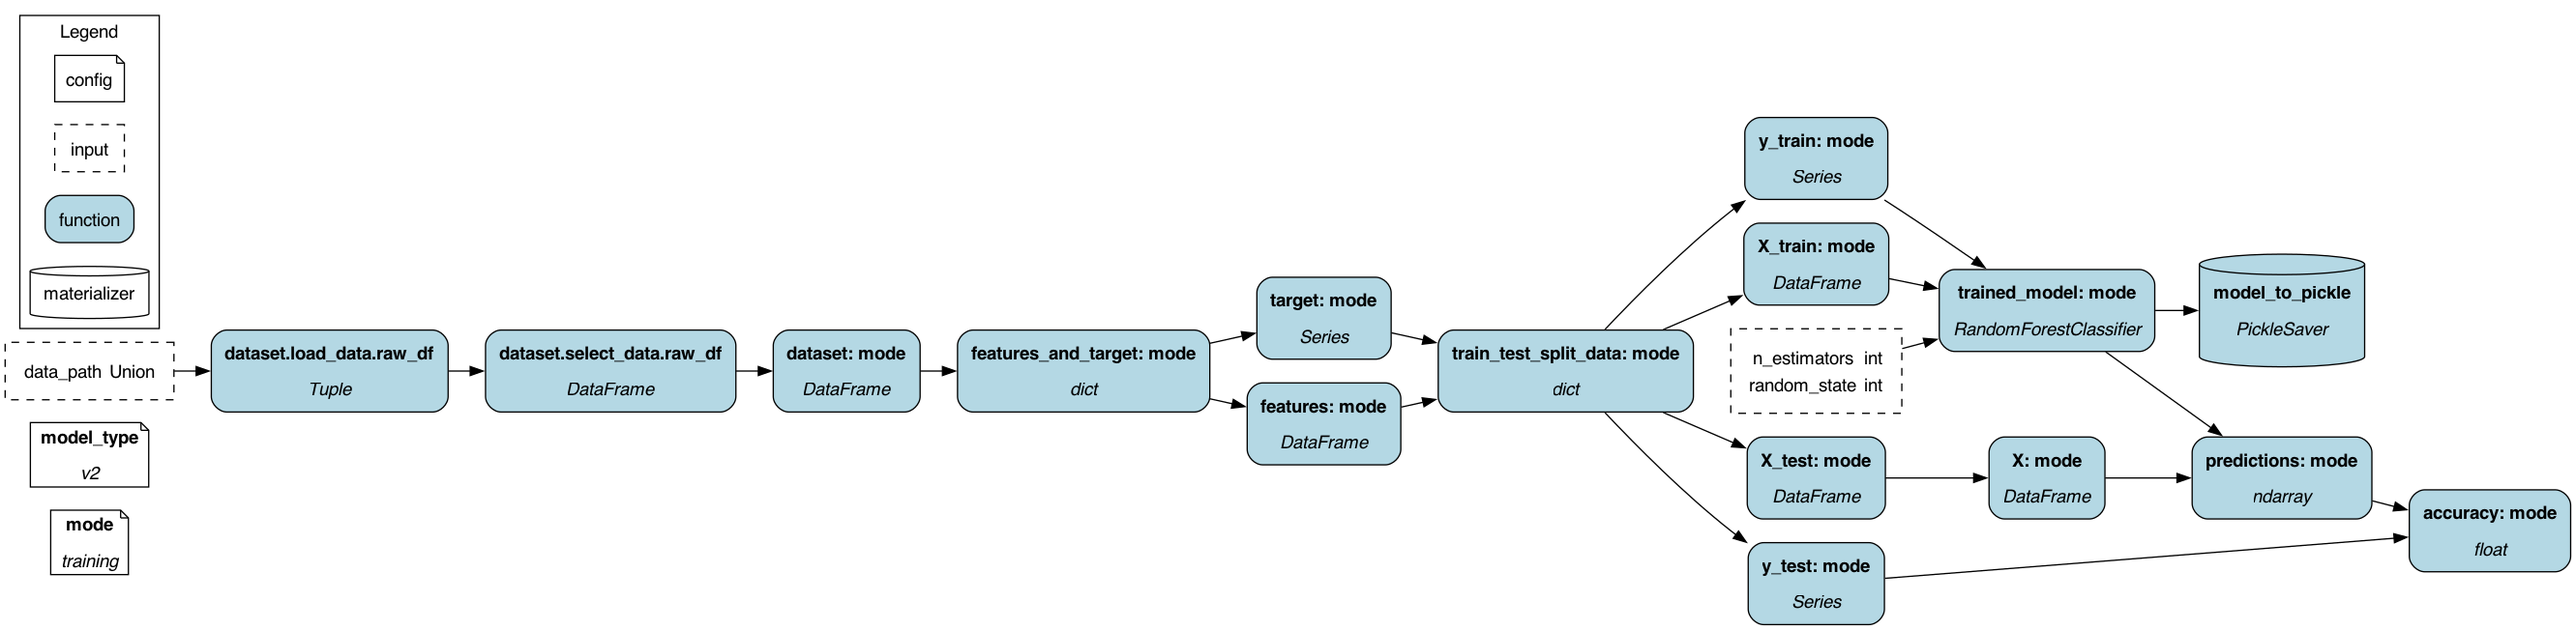
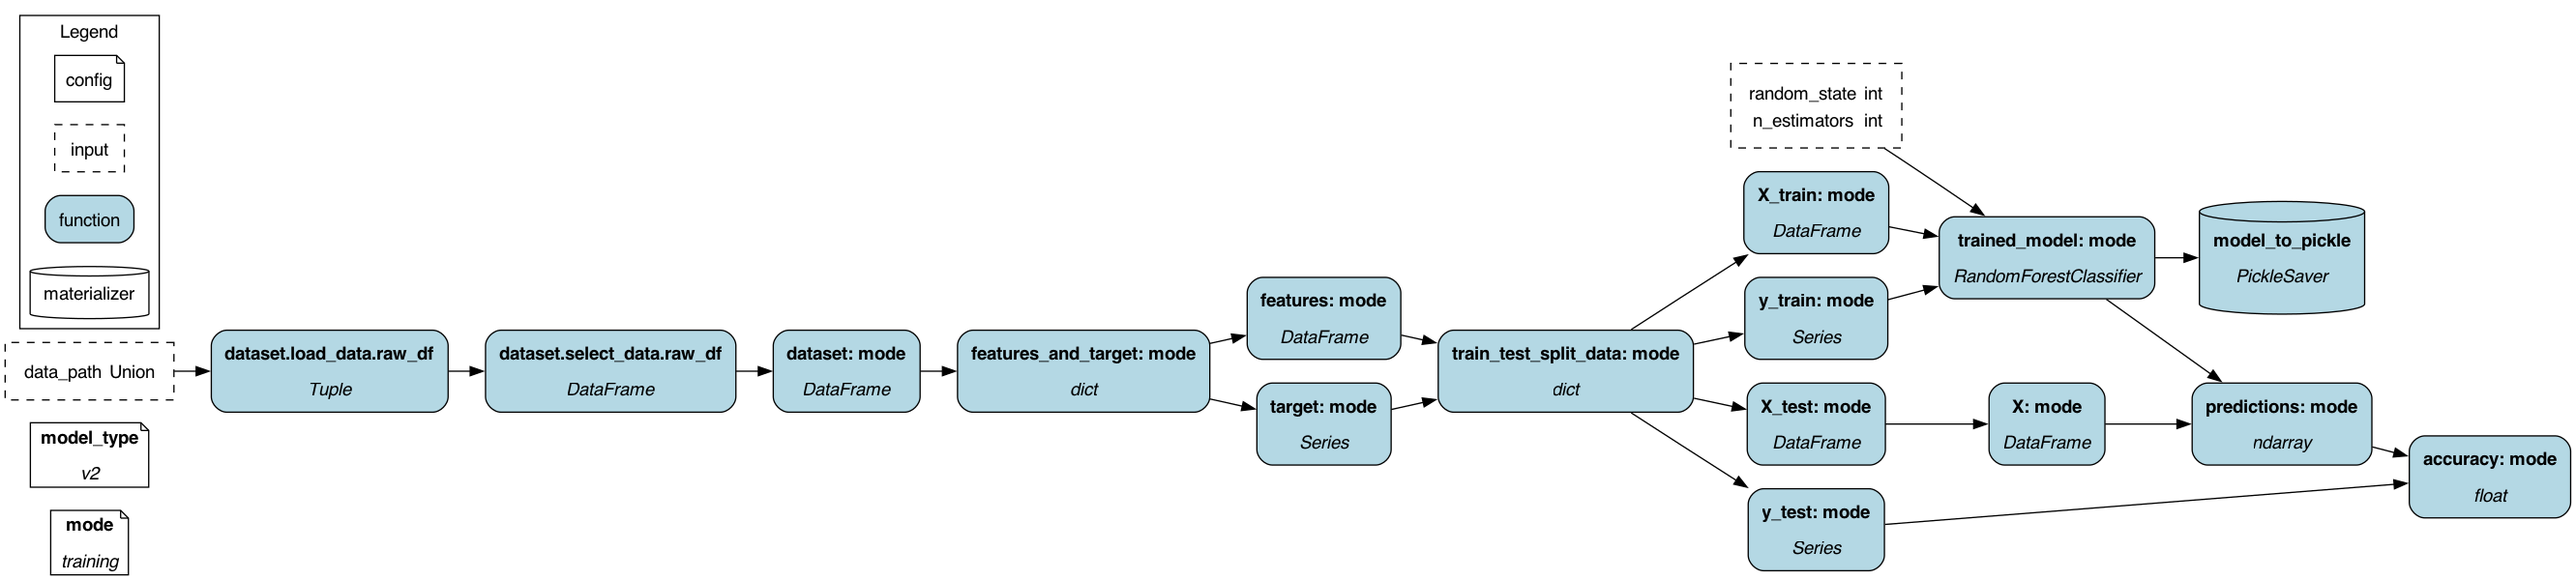
phase4 - with train/test bug

diff --git a/ml_project/phase4/driver.py b/ml_project/phase4/driver.py
@@ -1,8 +1,12 @@
 from hamilton.driver import Builder, Driver
 from hamilton.io.materialization import to, from_
-import full_dag
+import data_prep
+import split
 import training__v1
-import training__v2 #TODO: automatically add all modules?
+import training__v2 #TODO: automatically import all modules?
+import predictions
+import evaluation
+
 import logging
 from omegaconf import DictConfig, OmegaConf
 import hydra
@@ -15,6 +19,13 @@ logger = logging.getLogger(__name__)
 def main(cfg: DictConfig) -> None:
     # Log the working and output directories
     logger.info("Starting application with configuration:\n%s", OmegaConf.to_yaml(cfg))
+
+    modules = [data_prep, split, predictions, evaluation]
+    
+    if cfg.model.model_type == "v1":
+        modules += [training__v1]
+    else:
+        modules += [training__v2]
 
     cfg_dct = {"mode": cfg.mode, "model_type": cfg.model.model_type}
 
@@ -34,17 +45,14 @@ def main(cfg: DictConfig) -> None:
             )
         ]
 
-    if cfg.model.model_type == "v1":
-        modules = [full_dag, training__v1]
-    else:
-        modules = [full_dag, training__v2]
-
     dr = (
         Builder()
         .with_modules(*modules)
         .with_config(cfg_dct)
         .with_materializers(*mats)
     ).build()
+
+    dr.display_all_functions("dag.png")
 
     data_path = "data/01_raw/dataset.parquet"
 
@@ -63,9 +71,6 @@ def main(cfg: DictConfig) -> None:
     results = dr.execute(final_vars, inputs=inputs)
     logger.info(f"Results: {results}")
     logger.info("Dataflow execution completed.")
-
-    dr.display_all_functions("dag.png")
-
 
 if __name__ == "__main__":
     main()

diff --git a/ml_project/phase4/data_prep.py b/ml_project/phase4/data_prep.py
@@ -1,0 +1,23 @@
+import pandas as pd
+from hamilton.function_modifiers import load_from, source, extract_fields, config
+
+
+@config.when_in(mode=["training", "inference"])
+@load_from.parquet(path=source("data_path"))
+def dataset(raw_df: pd.DataFrame) -> pd.DataFrame:
+    """Load and optionally preprocess raw data from a Parquet file."""
+    processed_df = raw_df.dropna().reset_index(drop=True)
+    return processed_df
+
+
+@config.when_in(mode=["inference"])
+def processed_inference_dataset(dataset: pd.DataFrame) -> pd.DataFrame:
+    return dataset
+
+
+@config.when_in(mode=["training"])
+@extract_fields(dict(features=pd.DataFrame, target=pd.Series))
+def features_and_target(dataset: pd.DataFrame) -> dict:
+    features = dataset.drop("target", axis=1)
+    target = dataset["target"]
+    return {"features": features, "target": target}

diff --git a/ml_project/phase4/predictions.py b/ml_project/phase4/predictions.py
@@ -1,0 +1,21 @@
+import pandas as pd
+import numpy as np
+from sklearn.base import ClassifierMixin
+from hamilton.function_modifiers import config
+
+###########
+# Bridges #
+###########
+@config.when_in(mode=["training"])
+def X__training(X_test: pd.DataFrame) -> pd.DataFrame:
+    return X_test
+
+
+@config.when_in(mode=["inference"])
+def X__inference(processed_inference_dataset: pd.DataFrame) -> pd.DataFrame:
+    return processed_inference_dataset.drop("target", axis=1)
+############
+
+@config.when_in(mode=["training", "inference"])
+def predictions(trained_model: ClassifierMixin, X: pd.DataFrame) -> np.ndarray:
+    return trained_model.predict(X)

diff --git a/ml_project/phase4/split.py b/ml_project/phase4/split.py
@@ -1,0 +1,14 @@
+import pandas as pd
+from sklearn.model_selection import train_test_split
+from hamilton.function_modifiers import extract_fields, config
+from typing import Dict
+
+@config.when_in(mode=["training"])
+@extract_fields(
+    dict(X_train=pd.DataFrame, X_test=pd.DataFrame, y_train=pd.Series, y_test=pd.Series)
+)
+def train_test_split_data(features: pd.DataFrame, target: pd.Series) -> Dict:
+    X_train, X_test, y_train, y_test = train_test_split(
+        features, target, test_size=0.2, random_state=42
+    )
+    return {"X_train": X_train, "X_test": X_test, "y_train": y_train, "y_test": y_test}

diff --git a/ml_project/phase4/evaluation.py b/ml_project/phase4/evaluation.py
@@ -1,0 +1,8 @@
+import pandas as pd
+import numpy as np
+from sklearn.metrics import accuracy_score
+from hamilton.function_modifiers import config
+
+@config.when_in(mode=["training"])
+def accuracy(predictions: np.ndarray, y_test: pd.Series) -> float:
+    return accuracy_score(y_test, predictions)
